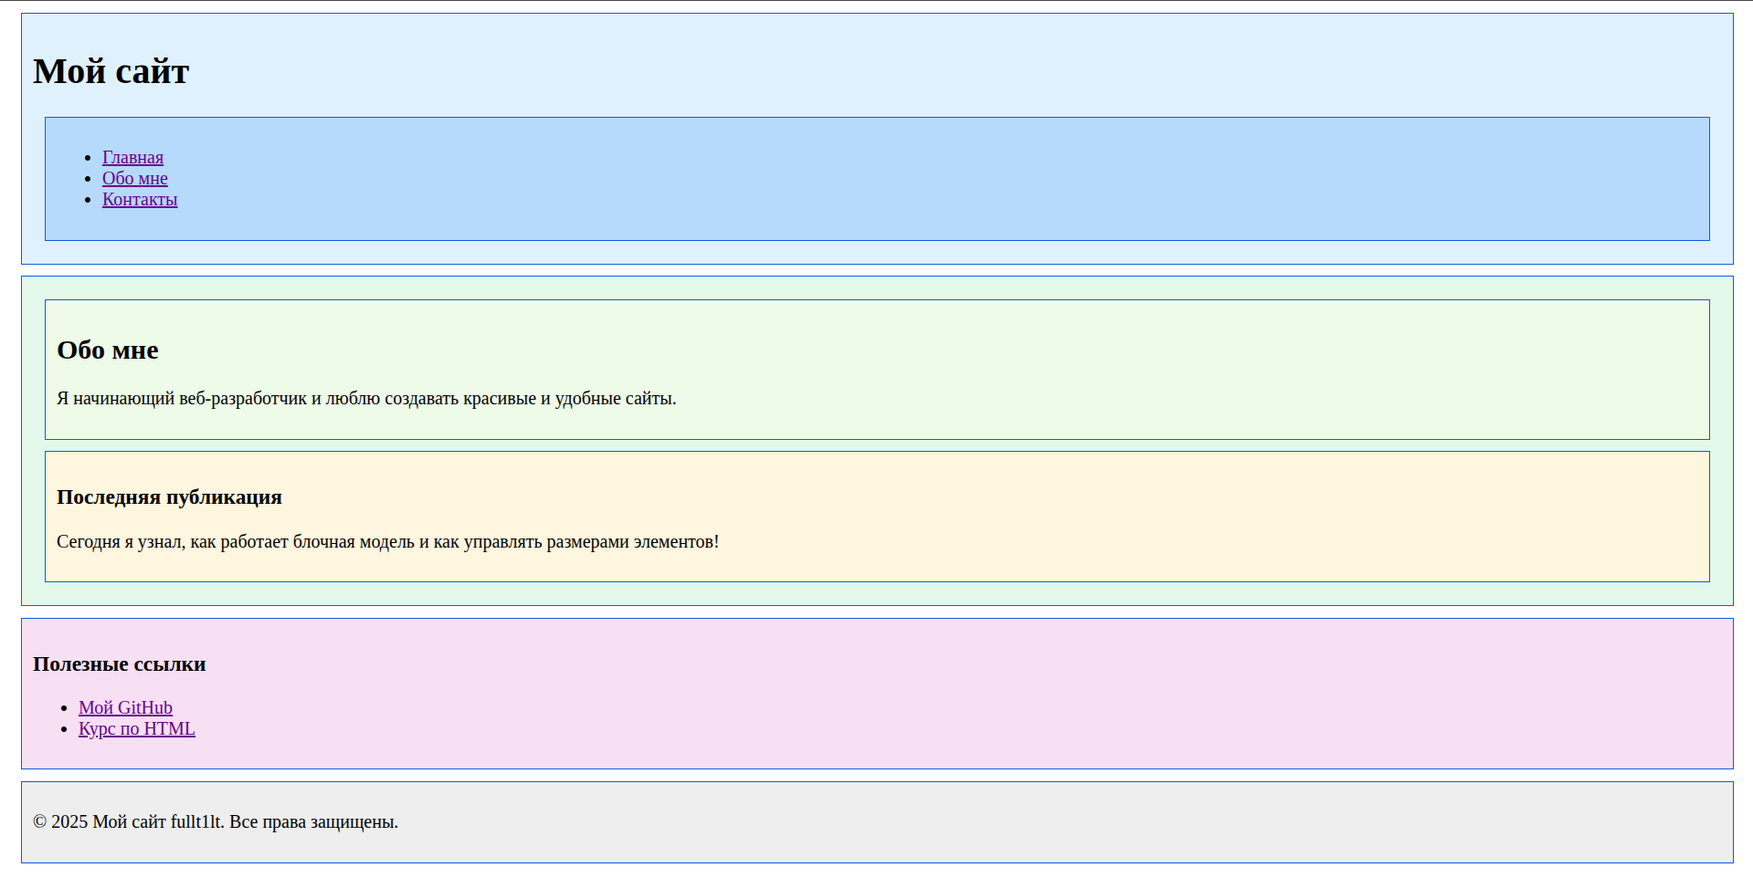
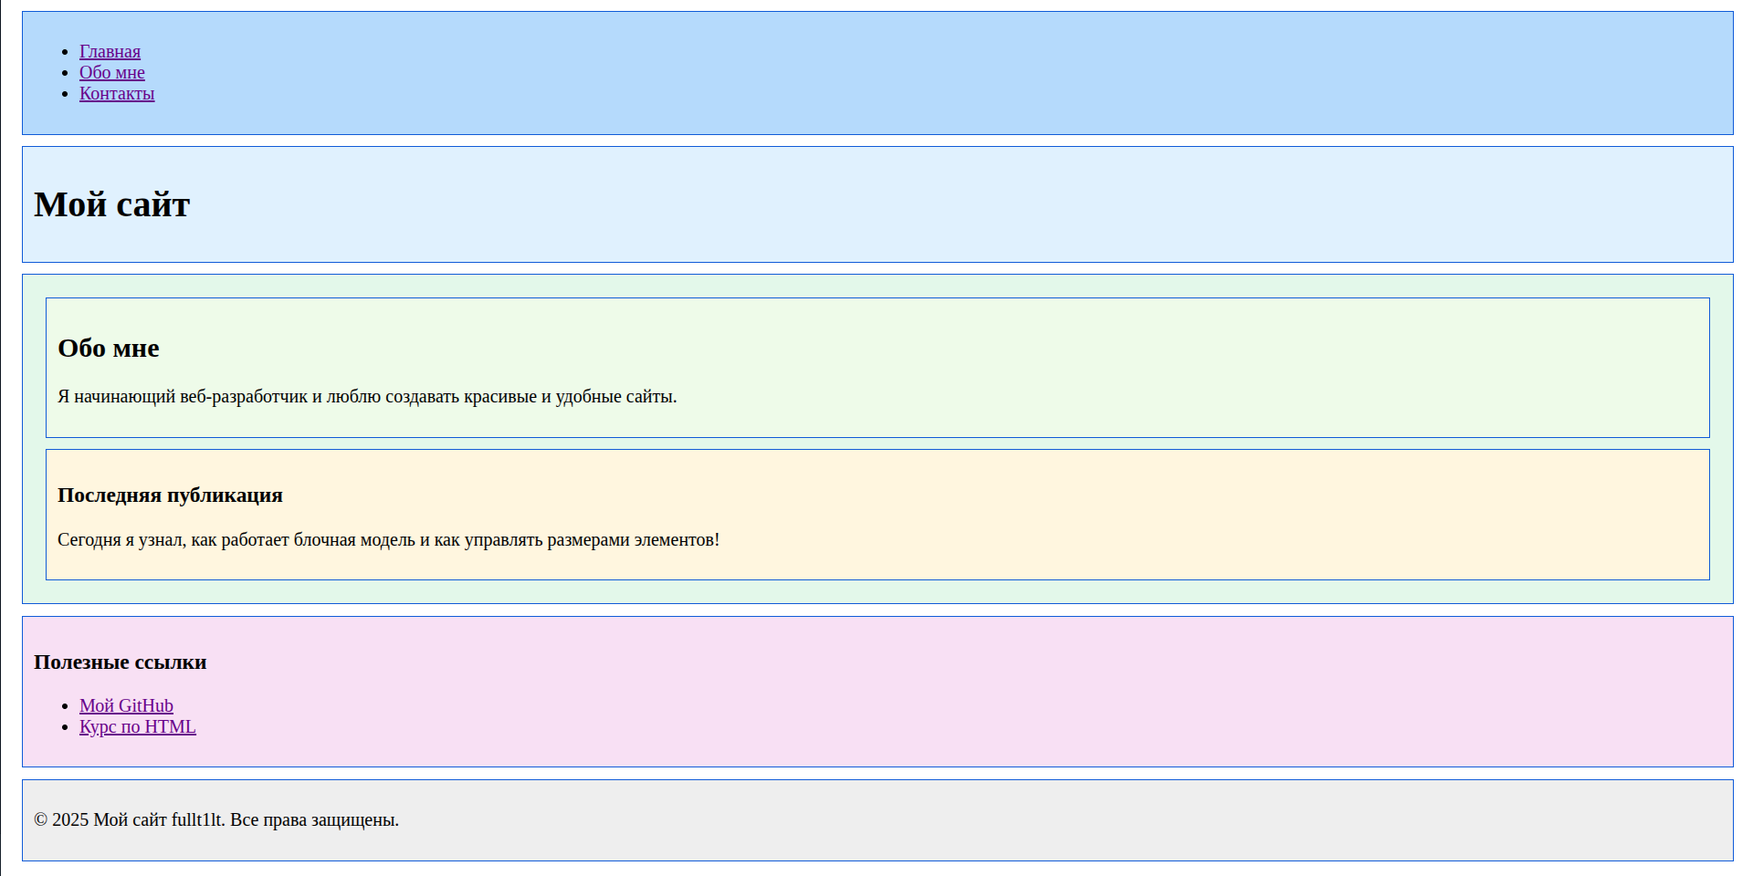
fixed mistackes in lesson04

diff --git a/lesson04.md b/lesson04.md
@@ -34,6 +34,7 @@ div {
   margin: 10px;
   background-color: #f2f2f2;
   text-align: center;
+  outline: 2px dashed #ff5722;
 }
 ```
 
@@ -45,6 +46,7 @@ div {
 - `margin` - добавляет внешние отступы между блоком и другими элементами.
 - `background-color` - задаёт цвет фона блока.
 - `text-align: center;` - центрирует текст внутри блока по горизонтали.
+- `outline` - добавляет внешнюю линию вокруг блока, не влияя на его размер.
 
 Результат будет выглядеть так:
 
@@ -66,6 +68,7 @@ div {
 | `padding`    | Внутренний отступ между содержимым и границей (`border`).                                  |
 | `border`     | Граница (рамка), которая окружает padding и контент.                                              |
 | `margin`     | Внешний отступ — пространство между элементом и соседними элементами.    |
+| `outline`    | Внешняя линия вокруг элемента, не влияющая на размер блока.                         |
 
 Вернемся к нашему примеру с блоком:
 
@@ -78,6 +81,7 @@ div {
   margin: 10px;
   background-color: #f2f2f2;
   text-align: center;
+  outline: 2px dashed #ff5722;
 }
 ```
 
@@ -199,15 +203,15 @@ div {
 
 ```html
 <body>
+  <nav>
+    <ul>
+      <li><a href="#">Главная</a></li>
+      <li><a href="#">Обо мне</a></li>
+      <li><a href="#">Контакты</a></li>
+    </ul>
+  </nav>
   <header>
     <h1>Мой сайт</h1>
-    <nav>
-      <ul>
-        <li><a href="#">Главная</a></li>
-        <li><a href="#">Обо мне</a></li>
-        <li><a href="#">Контакты</a></li>
-      </ul>
-    </nav>
   </header>
 
   <main>
@@ -1173,14 +1177,87 @@ img[src$=".png"] {
 
 > Атрибутные селекторы часто используют для иконок, логотипов или для выделения разных форматов изображений.
 
-| Синтаксис         | Что делает                          | Пример               |
-| ----------------- | ----------------------------------- | -------------------- |
-| `[attr]`          | Элемент, у которого есть атрибут    | `[href]`             |
-| `[attr^="текст"]` | Значение **начинается** с текста    | `[href^="https://"]` |
-| `[attr$="текст"]` | Значение **заканчивается** на текст | `[src$=".png"]`      |
-| `[attr*="текст"]` | Значение **содержит** текст         | `[href*="github"]`   |
+| Синтаксис                                                                                                   | Что делает                                            | Пример           |
+| -------------------------------------------------------------------------------------------------------------------- | -------------------------------------------------------------- | ---------------------- |
+| `[attr]`                                                                                                           | Элемент, у которого есть атрибут    | `[href]`             |
+| `[attr^="текст"]`                                                                                             | Значение**начинается** с текста | `[href^="https://"]` |
+| `[attr$="текст"]` | Значение **заканчивается** на текст | `[src$=".png"]` |                                                                |                        |
+| `[attr*="текст"]`                                                                                             | Значение**содержит** текст          | `[href*="github"]`   |
 
 ---
+
+### Приоритетность (specificity) в CSS
+
+Когда к одному элементу применяются несколько правил `CSS`, браузер должен решить, какое из них важнее. Этот процесс называется приоритетностью (или специфичностью).
+
+`CSS` определяет, насколько *“точно”* селектор указывает на элемент. Чем конкретнее селектор — тем выше его приоритет.
+
+Уровни приоритетности:
+
+| Уровень                            | Пример                      | Вес (specificity) | Комментарий                                                |
+| ---------------------------------- | --------------------------- | ----------------- | --------------------------------------------------------   |
+| **Inline-стили**                   | `<a style="color:red">`     | **1-0-0-0**       | Всегда приоритетнее внешних CSS                            |
+| **ID**                             | `#header`                   | **0-1-0-0**       | Очень высокий приоритет                                    |
+| **Классы, псевдоклассы, атрибуты** | `.menu`, `:hover`, `[href]` | **0-0-1-0**       | Средний приоритет                                          |
+| **Теги и псевдоэлементы**          | `div`, `a`, `::before`      | **0-0-0-1**       | Низкий приоритет                                           |
+| **Универсальный селектор**         | `*`                         | **0-0-0-0**       | Почти не имеет веса                                        |
+| **!important**                     | `color: red !important;`    | —                 | Принудительно перекрывает всё, кроме `inline + !important` |
+
+**Пример**
+```html
+<a id="main-link" class="link" href="#">Моя ссылка</a>
+```
+```css
+a { color: green; }          /* 0-0-0-1 */
+.link { color: blue; }       /* 0-0-1-0 */
+#main-link { color: orange; }/* 0-1-0-0 */
+a { color: red !important; } /* !important */
+```
+
+В этом примере цвет ссылки будет красным из-за `!important`, несмотря на то, что у неё есть более специфичные селекторы.
+
+Пример со спором селекторов
+```html
+<div class="father">
+  <a class="test" href="#">Ссылка</a>
+</div>
+```
+```css
+.father a {
+  color: blue;
+}
+
+.father .test {
+  color: red;
+}
+
+```
+
+В этом случае цвет ссылки будет красным, так как селектор `.father .test` (0-0-2-0) имеет более высокий приоритет, чем `.father a` (0-0-1-1).
+
+**Правило «последнее объявление побеждает»**
+
+Если два селектора имеют одинаковый уровень приоритетности, то применяется то правило, которое объявлено позже в коде.
+
+```css
+p { color: green; } /* Первое объявление */
+p { color: blue; }  /* Второе объявление */
+```
+В этом случае все абзацы будут синими, так как второе объявление переопределяет первое.
+
+**Как проверить приоритетность**
+
+1. Откройте DevTools (`F12 `→ вкладка `“Elements”`).
+2. Выберите элемент и откройте вкладку `“Styles”`.
+3. В ней браузер покажет перечёркнутые свойства — это те, что были переопределены селекторами с более высоким приоритетом.
+
+
+**Советы**
+
+- Не злоупотребляйте `!important` — это признак “аварийного” стиля.
+- Стройте стили от общих к частным, чтобы `CSS` оставался предсказуемым.
+- Для повышения приоритета — добавьте класс, а не `id`.
+- Если порядок сложен — временно включите `outline` или `border`, чтобы видеть, какой стиль реально применяется.
 
 ## Псевдоклассы
 
@@ -1191,13 +1268,12 @@ img[src$=".png"] {
 
 Используются для изменения внешнего вида элементов в зависимости от действий пользователя.
 
-| Псевдокласс | Когда срабатывает                                   | Пример применения |
-| ----------- | --------------------------------------------------- | ----------------- |
-| `:hover`    | При наведении курсора мыши на элемент               | Меню, кнопки      |
-| `:active`   | Когда элемент нажат                                 | Кнопки, ссылки    |
-| `:focus`    | Когда элемент в фокусе (например, при вводе текста) | Поля форм         |
-| `:visited`  | Для ссылок, которые уже посещались                  | Навигация         |
-
+| Псевдокласс | Когда срабатывает                                                            | Пример применения |
+| ---------------------- | -------------------------------------------------------------------------------------------- | --------------------------------- |
+| `:hover`             | При наведении курсора мыши на элемент                        | Меню, кнопки            |
+| `:active`            | Когда элемент нажат                                                         | Кнопки, ссылки        |
+| `:focus`             | Когда элемент в фокусе (например, при вводе текста) | Поля форм                 |
+| `:visited`           | Для ссылок, которые уже посещались                              | Навигация                |
 
 **Пример: ссылки с разными состояниями**
 
@@ -1210,22 +1286,20 @@ img[src$=".png"] {
 a {
   color: #1565c0;
   text-decoration: none;
-}
 
-/* При наведении */
-a:hover {
-  color: #0d47a1;
-  text-decoration: underline;
-}
-
-/* При нажатии */
-a:active {
-  color: #ef6c00;
-}
-
-/* Посещённая ссылка */
-a:visited {
-  color: #6a1b9a;
+  /* При наведении */
+  &:hover {
+    color: #0d47a1;
+    text-decoration: underline;
+  }
+  /* При клике */
+  &:active {
+    color: #ef6c00;
+  }
+  /* Посещённая ссылка */
+  &:visited {
+    color: #6a1b9a;
+  }
 }
 ```
 
@@ -1272,13 +1346,13 @@ a:visited {
 
 Используются для выбора элементов в зависимости от их позиции внутри родителя.
 
-| Псевдокласс        | Что выбирает                  | Пример               |
-| ------------------ | ----------------------------- | -------------------- |
-| `:first-child`     | Первый дочерний элемент       | `li:first-child`     |
-| `:last-child`      | Последний дочерний элемент    | `li:last-child`      |
-| `:nth-child(n)`    | Элемент по номеру или шаблону | `li:nth-child(2)`    |
-| `:nth-child(odd)`  | Нечётные элементы (1, 3, 5…)  | `li:nth-child(odd)`  |
-| `:nth-child(even)` | Чётные элементы (2, 4, 6…)    | `li:nth-child(even)` |
+| Псевдокласс | Что выбирает                                | Пример           |
+| ---------------------- | ------------------------------------------------------ | ---------------------- |
+| `:first-child`       | Первый дочерний элемент           | `li:first-child`     |
+| `:last-child`        | Последний дочерний элемент     | `li:last-child`      |
+| `:nth-child(n)`      | Элемент по номеру или шаблону | `li:nth-child(2)`    |
+| `:nth-child(odd)`    | Нечётные элементы (1, 3, 5…)          | `li:nth-child(odd)`  |
+| `:nth-child(even)`   | Чётные элементы (2, 4, 6…)              | `li:nth-child(even)` |
 
 Пример: оформление списка
 
@@ -1292,28 +1366,28 @@ a:visited {
 ```
 
 ```css
-/* Первый элемент списка */
-li:first-child {
+li {
+  /* Первый элемент списка */
+&:first-child {
   color: #1e88e5;
 }
-
 /* Последний элемент списка */
-li:last-child {
+&:last-child {
   color: #ef5350;
 }
-
 /* Четный элемент списка */
-li:nth-child(even) {
+&:nth-child(even) {
   background-color: #e3f2fd;
 }
-
 /* Нечётные элементы списка */
-li:nth-child(odd) {
+&:nth-child(odd) {
   background-color: #bbdefb;
+}
+
 }
 ```
 
-> `:nth-child()` можно использовать с формулой, например l`i:nth-child(3n)` — выберет каждый третий элемент.
+> `:nth-child()` можно использовать с формулой, например `li:nth-child(3n)` — выберет каждый третий элемент.
 
 ---
 
@@ -1322,27 +1396,29 @@ li:nth-child(odd) {
 **Псевдоэлементы** позволяют добавлять декоративный контент до или после содержимого элемента, не меняя HTML-код.
 Они начинаются с `::` и действуют как “виртуальные” дочерние элементы.
 
-| Псевдоэлемент    | Что делает                                       |
-| ---------------- | ------------------------------------------------ |
-| `::before`       | Добавляет контент **перед** содержимым элемента  |
-| `::after`        | Добавляет контент **после** содержимого элемента |
-| `::first-line`   | Применяет стиль к **первой строке** текста       |
-| `::first-letter` | Применяет стиль к **первой букве** текста        |
+| Псевдоэлемент | Что делает                                                                           |
+| -------------------------- | --------------------------------------------------------------------------------------------- |
+| `::before`               | Добавляет контент**перед** содержимым элемента   |
+| `::after`                | Добавляет контент**после** содержимого элемента |
+| `::first-line`           | Применяет стиль к**первой строке** текста              |
+| `::first-letter`         | Применяет стиль к**первой букве** текста                |
 
 **Пример: использование `::before` и `::after`**
 
 ```html
 <h2 class="title">Новости</h2>
 ```
-```css
-.title::before {
-  content: "★ ";
-  color: #f9a825;
-}
 
-.title::after {
-  content: " ★";
-  color: #f9a825;
+```css
+.title {
+  &::before {
+    content: '★ ';
+    color: #f9a825;
+  }
+  &::after {
+    content: ' ★';
+    color: #f9a825;
+  }
 }
 ```
 
@@ -1356,6 +1432,7 @@ li:nth-child(odd) {
 ```html
 <h2 class="decor-title">Контакты</h2>
 ```
+
 ```css
 .decor-title {
   position: relative;
@@ -1386,6 +1463,7 @@ li:nth-child(odd) {
   Здесь продолжается остальной текст абзаца, который не затрагивается стилями первой буквы и первой строки.
 </p>
 ```
+
 ```css
 .fancy-paragraph::first-letter {
   font-size: 2em;
@@ -1397,12 +1475,15 @@ li:nth-child(odd) {
   color: #1976d2;
 }
 ```
+
 ---
+
 ## Заключение
 
 Сегодня вы узнали, что любое содержимое на веб-странице — это блок, и что именно блочная модель `(Box Model)` управляет тем, как эти блоки занимают место и взаимодействуют между собой.
 
 Мы разобрали:
+
 - как браузер вычисляет размеры элементов с учётом `margin`, `padding`, `border`, `width`, `height`;
 - что такое блочные и строчные элементы и как свойство `display` меняет их поведение;
 - как использовать семантические теги для логичной структуры страницы;
@@ -1415,4 +1496,14 @@ li:nth-child(odd) {
 
 ---
 
+## Практическое задание
 
+Попробуйте закрепить материал на практике, создав простую страницу с несколькими блоками, отступами, рамками и декоративными элементами.
+
+**Задача:**
+
+Создайте страницу с навигацией, заголовком, основным контентом и футером. Стилизуйте её, применяя всё, что мы изучили в этой лекции.
+- Используйте блочную модель для управления отступами и размерами.
+- Добавьте рамки и скругления к блокам.
+- Примените псевдоклассы для интерактивных элементов (например, кнопок или ссылок).
+- Используйте псевдоэлементы для декоративных деталей (например, иконок или линий).
